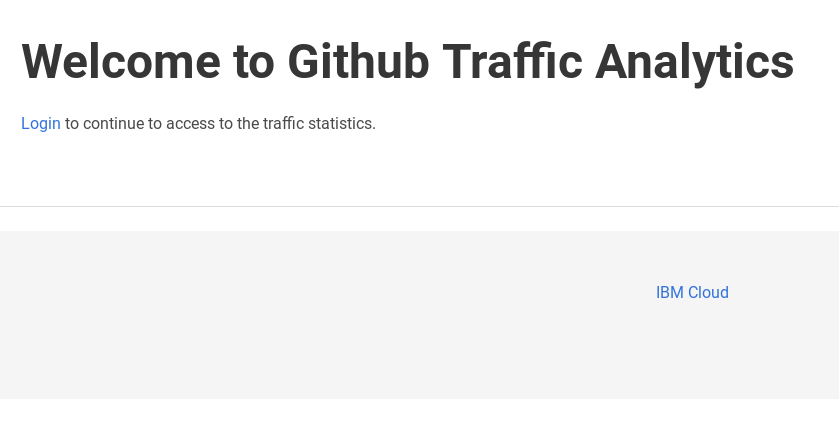
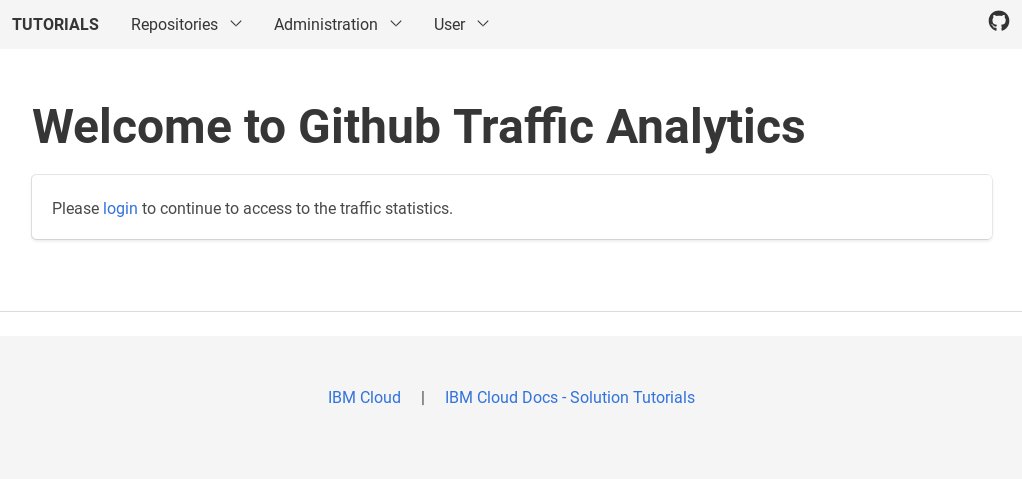
Updates for Github traffic analytics

diff --git a/github-traffic-analytics.md b/github-traffic-analytics.md
@@ -1,7 +1,7 @@
 ---
 copyright:
   years: 2018
-lastupdated: "2018-04-04"
+lastupdated: "2018-04-05"
 
 ---
 
@@ -13,7 +13,7 @@ lastupdated: "2018-04-04"
 {:pre: .pre}
 
 # Github Traffic Analytics
-In this tutorial, we are going to create an application to automatically collect Github traffic statistics for repositories. An app manages those repositories and allows view and analyze the traffic data.
+In this tutorial, we are going to create an application to automatically collect Github traffic statistics for repositories and provide the foundation for traffic analytics. Github only provides access to the traffic data for the last 14 days. If you want to analyze statistics over a longer period of time, you need to download and store that data yourself. The app and the serverless action discussed in this tutorial implement a multi-tenant-ready solution to manage repositories, automatically collect traffic data on a daily or weekly schedule, and to view and analyze the collected data.
 
 ![](images/solution24-github-traffic-analytics/Architecture.png)
 
@@ -91,6 +91,10 @@ The following steps are all performed using your Internet browser.
 1. In the [{{site.data.keyword.Bluemix_short}} dashboard](https://console.bluemix.net) open the overview of your services. Locate the instance of the {{site.data.keyword.appid_short}} service created in the previous section. Click on its entry to open the service details.
 2. In the service dashboard, click on **Manage** under **Identity Providers** in the menu on the left side. It brings a list of the available identity providers, such as Facebook, Google, SAML 2.0 Federation and the Cloud Directory. Switch the Cloud Directory from **Off** to **On**.
 3. At the bottom of that page is the list of redirect URLs. Add the application URI combined with `/redirect_uri` to the list. Make sure that **https** is used in the URL if the app uses it. This is the case for applications hosted at subdomains of **mybluemix.net**. If your app name would be **github-traffic-stats-my-app.mybluemix.net**, then enter `https://github-traffic-stats-my-app.mybluemix.net/redirect_uri`.
+
+   For testing the app locally, the redirect URL would be `http://0.0.0.0:5000/redirect_uri`. You can configure multiple redirect URLs.
+   {:tip}
+   ![](images/solution24-github-traffic-analytics/ManageIdentityProviders.png)
 4. In the menu on the left, click on **Users**. It opens the list of users in the Cloud Directory. Click on the **Add User** button to add yourself as the first user. We are now done configuring the {{site.data.keyword.appid_short}} service.
 5. Later on, we are collecting traffic statistics for Github repositories. This can be done for repositories for which you have **push** privileges. In order to access your Github account from the program code, we need a **Github access token**. In the browser, visit [Github.com](https://github.com/settings/tokens) and go to **Settings -> Developer settings -> Personal access tokens**. Click on the button **Generate new token**. Enter **GHStats Tutorial** for the **Token description**. Thereafter, enable **public_repo** under the **repo** category and **read:org** under **admin:org**. Now, at the bottom of that page, click on **Generate token**. The new access token is displayed on the next page. You will need it during the following application setup.
    ![](images/solution24-github-traffic-analytics/GithubAccessToken.png)
@@ -101,15 +105,14 @@ After the preparation, we configure and test the app. The app is written in Pyth
 
 1. In a browser, open the URI of the deployed app. You should see a welcome page.
    ![](images/solution24-github-traffic-analytics/WelcomeScreen.png)
-   TODO: REPLACE once finalized
 
 2. In the browser, add `/admin/initialize-app` to the URI and access the page. It is used to initialize the application and its data. Click on the button **Start initialization**. This will take you to a password-protected configuration page. The email address you log in with is taken as identification for the system administrator.
 
 3. In the configuration page, enter a name (it is used for greetings), your Github user name and the access token that you generated before. Click on **Initialize**. This creates the database tables and inserts some configuration values. Finally, it creates database records for the system administrator and a tenant.
    ![](images/solution24-github-traffic-analytics/InitializeApp.png)
-   TODO: REPLACE once finalized
 
 4. Once done, you are taken to the list of managed repositories. You can now add repositories by providing the name of the Github account or organization and the name of the repository. After entering the data, click on **Add repository**. The repository, along with a newly assigned identifier, should appear in the table. You can remove repositories from the system by entering their ID and clicking **Delete repository**.
+![](images/solution24-github-traffic-analytics/RepositoryList.png)
 
 ## Deploy Cloud Function and Trigger
 With the management app in place, we now deploy an action, a trigger and a rule to connect the two in for {{site.data.keyword.openwhisk_short}}. These objects are used to automatically collect the Github traffic data on the specified schedule. The action connects to the database, iterates over all tenants and their repositories and obtains the view and cloning data for each repository. Those statistics are merged into the database.
@@ -155,6 +158,8 @@ With the management app in place, we now deploy an action, a trigger and a rule 
        "repoCount": 18
    }
    ```
+7. In your browser window with the app page, you can now visit the repository traffic. By default, 10 entries are displayed. You can change it to different values. It is also possible to sort the table columns or use the search box to filter for specific repositories.
+   ![](images/solution24-github-traffic-analytics/RepositoryTraffic.png)
 
 ## Cleanup
 To clean up the resources used for this tutorial, you can delete the related services and app as well as the action, trigger and rule in the reverse order as created:
@@ -178,19 +183,16 @@ To clean up the resources used for this tutorial, you can delete the related ser
 
 ## Expand the tutorial
 Want to add to or change this tutorial? Here are some ideas:
-1. Expand multi-tenant support
-2. Add support for Github Enterprise
-3. foo
-4. bar
+1. Expand the app for multi-tenant support
+2. Integrate a charting for the data
+3. Use social identity providers.
+4. Add a date picker to the statistics page to filter displayed data.
 
 # Related Content
 Here are links to additional information on the topics covered in this tutorial.
 
-Blogs:
-*
-*
-
 Documentation and SDKs:
 * [{{site.data.keyword.openwhisk_short}} documentation](https://console.bluemix.net/docs/openwhisk/openwhisk_about.html#about-cloud-functions)
 * Documentation: [IBM Knowledge Center for {{site.data.keyword.dashdbshort}}](https://www.ibm.com/support/knowledgecenter/en/SS6NHC/com.ibm.swg.im.dashdb.kc.doc/welcome.html)
-*
+* [{{site.data.keyword.appid_short} documentation](https://console.bluemix.net/docs/services/appid/index.html#gettingstarted)
+* [Python runtime on IBM Cloud](https://console.bluemix.net/docs/runtimes/python/index.html#python_runtime)
